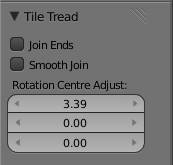
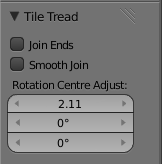
update docs

diff --git a/docs/index.html b/docs/index.html
@@ -34,9 +34,9 @@ a
 </HEAD>
 <BODY STYLE="background-color : #F4F4F0">
 
-<DIV CLASS="h1">TreadTiler 0.5.1 User Guide<BR>
+<DIV CLASS="h1">TreadTiler 0.5.3 User Guide<BR>
 <A HREF="mailto:&quot;Lawrence D'Oliveiro&quot; &lt;ldo@geek-central.gen.nz&gt;">Lawrence D&#8217;Oliveiro</A><BR>
-2011 January 10</DIV>
+2011 January 14</DIV>
 <DIV STYLE="position : fixed; height : auto; width : 20%; top : 1em; right : 1em; left : auto; background-color : #E8E8E0">Table of Contents
 <OL>
 <LI><A HREF="#Introduction">Introduction</A>
@@ -49,6 +49,7 @@ a
 <LI><A HREF="#SelectingSides">Selecting The Sides To Be Joined</A>
 <LI><A HREF="#CompleteTorus">Completing The Torus</A>
 <LI><A HREF="#AssignMaterials">Assigning Materials</A>
+<LI><A HREF="#OtherObjects">Making Other Objects</A>
 </UL>
 </OL>
 </DIV>
@@ -181,12 +182,12 @@ created to complete the torus.
 that you can adjust. If you hover over these with the mouse, tooltips will appear
 explaining what they are:
 <OL>
-<LI>The radius of rotation, governing the size of the generated mesh. The initial
+<LI>The length of the radius of rotation, governing the size of the generated mesh. The initial
 value of this comes from the distance to the rotation centre vertex that you specified.
-<LI>A “tilt” adjustment, which can be used to fine-tune how well adjacent copies
-of the tread pattern align together.
-<LI>An “asymmetry” adjustment, that can be used to twist the tread pattern towards
-one side or the other.
+<LI>A “tilt” adjustment angle to the radius of rotation, which can be used to fine-tune how
+well adjacent copies of the tread pattern align together.
+<LI>An “asymmetry” adjustment angle to the radius of rotation, that can be used to twist the
+tread pattern towards one side or the other.
 </OL>
 <P>The number of copies of the replicated mesh pattern are automatically computed
 based on the closest whole-integer number of copies that can be fitted around
@@ -214,6 +215,11 @@ is made smaller.
 <P>You can assign different materials to different parts of the original mesh
 (e.g. a different colour for the tread and the sidewalls). These material assignments
 will carry over to the corresponding parts of the generated mesh.
+
+<DIV CLASS="h3"><A NAME="OtherObjects"></A>Making Other Objects</DIV>
+<P>TreadTiler can be used to make other things besides tyres. Here it is being
+used to construct various kinds of gear wheels:
+<DIV CLASS="figure"><IMG SRC="TreadMesh18.png"></DIV>
 
 </DIV>
 </BODY>
